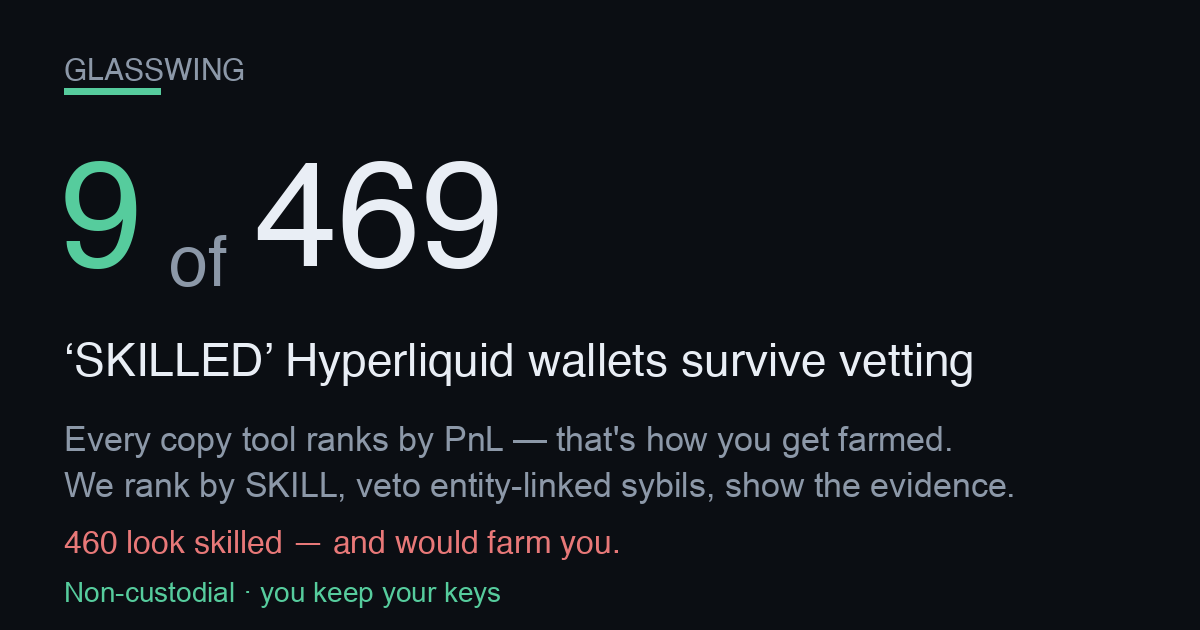
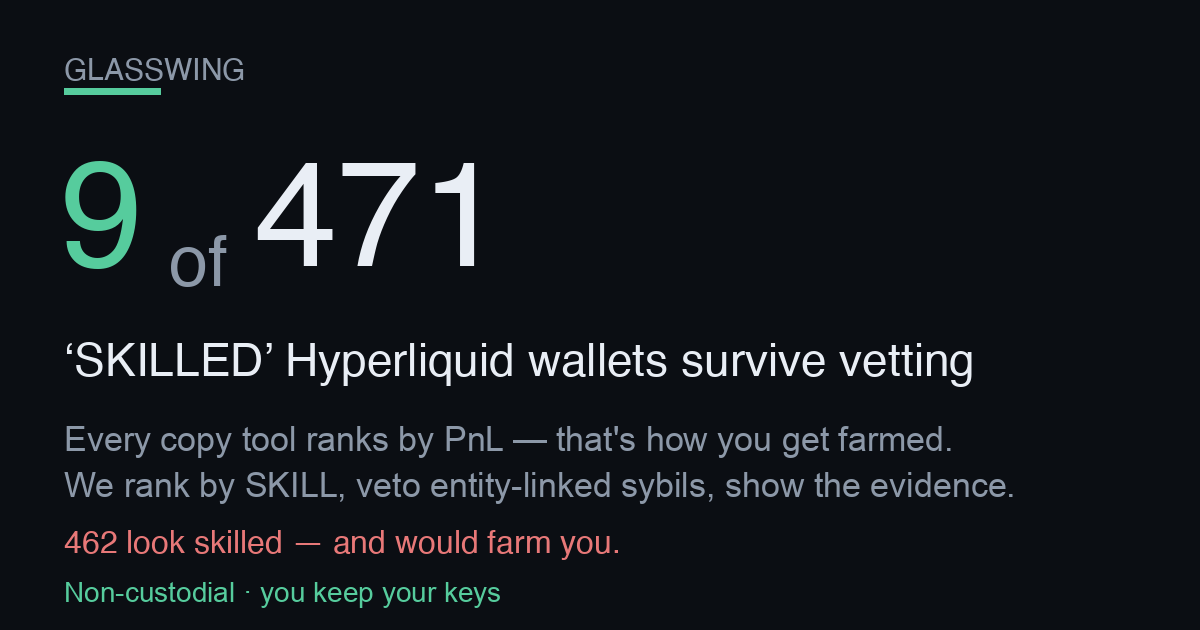
publish funnel 2026-09-26T18:35:58Z

Changed region(s): [[0.2775, 0.2413, 0.4317, 0.4524], [0.0617, 0.8444, 0.0925, 0.8746]]

diff --git a/screener.html b/screener.html
@@ -57,4 +57,4 @@ padding:11px 22px;font-size:15px;font-weight:800;border:1px solid var(--good)}
 footer{margin-top:34px;color:var(--muted);font-size:12px;line-height:1.6;
 border-top:1px solid var(--line);padding-top:16px}
 footer b{color:var(--ink)}
-</style></head><body><div class="wrap"><div class="nav"><a href="./index.html">&larr; Glasswing home</a><span class="sep">|</span><span>Edge Screener</span><span class="sep">|</span><a href="./dex.html">Copy a vetted leader</a></div><div class="hero"><h1>Hyperliquid Edge Screener</h1><div class="sub">Where&rsquo;s the carry, where a maker earns, and what&rsquo;s moving on Hyperliquid &mdash; live, computed from the public API. Bookmark it. Every number below is real and timestamped.</div><div class="stamp">Data as of <b>2026-09-26T05:43:20Z</b> &middot; rendered 2026-09-26T05:43:20Z &middot; 178 perps &middot; 109 HIP-3 (xyz) markets scanned</div></div><h2>Top funding &mdash; the carry table <span class="hint">perps ranked by annualized funding. Positive = longs pay shorts (a delta-neutral short earns it).</span></h2><div class="tblwrap"><table><thead><tr><th>Coin</th><th>Funding / hr</th><th>Annualized</th><th>Who pays</th><th>Open interest</th><th>24h volume</th></tr></thead><tbody><tr><td class="coin">CASHCAT</td><td>+0.0230%</td><td class="pos">+201.6%</td><td><span class="tag longs">longs pay</span></td><td>$51.1M</td><td>$29.1M</td></tr><tr><td class="coin">SKY</td><td>+0.0181%</td><td class="pos">+159.0%</td><td><span class="tag longs">longs pay</span></td><td>$5.4M</td><td>$1.2M</td></tr><tr><td class="coin">STBL<span class="tag thin" title="Low liquidity/OI &mdash; ADL &amp; liquidation risk; funding can flip">&#9888; thin</span></td><td>+0.0149%</td><td class="pos">+130.1%</td><td><span class="tag longs">longs pay</span></td><td>$2.4M</td><td>$221K</td></tr><tr><td class="coin">BIO</td><td>+0.0147%</td><td class="pos">+129.0%</td><td><span class="tag longs">longs pay</span></td><td>$1.6M</td><td>$1.5M</td></tr><tr><td class="coin">MNT</td><td>+0.0143%</td><td class="pos">+125.1%</td><td><span class="tag longs">longs pay</span></td><td>$7.4M</td><td>$952K</td></tr><tr><td class="coin">AZTEC</td><td>+0.0133%</td><td class="pos">+116.6%</td><td><span class="tag longs">longs pay</span></td><td>$1.1M</td><td>$527K</td></tr><tr><td class="coin">GRASS</td><td>+0.0128%</td><td class="pos">+111.8%</td><td><span class="tag longs">longs pay</span></td><td>$26.0M</td><td>$9.9M</td></tr><tr><td class="coin">GOAT<span class="tag thin" title="Low liquidity/OI &mdash; ADL &amp; liquidation risk; funding can flip">&#9888; thin</span></td><td>+0.0114%</td><td class="pos">+99.4%</td><td><span class="tag longs">longs pay</span></td><td>$1.6M</td><td>$144K</td></tr><tr><td class="coin">AERO</td><td>+0.0112%</td><td class="pos">+98.1%</td><td><span class="tag longs">longs pay</span></td><td>$38.7M</td><td>$22.6M</td></tr><tr><td class="coin">ETHFI</td><td>+0.0105%</td><td class="pos">+91.8%</td><td><span class="tag longs">longs pay</span></td><td>$18.8M</td><td>$4.4M</td></tr><tr><td class="coin">WIF</td><td>+0.0102%</td><td class="pos">+89.3%</td><td><span class="tag longs">longs pay</span></td><td>$8.9M</td><td>$1.3M</td></tr><tr><td class="coin">CFX<span class="tag thin" title="Low liquidity/OI &mdash; ADL &amp; liquidation risk; funding can flip">&#9888; thin</span></td><td>+0.0102%</td><td class="pos">+89.0%</td><td><span class="tag longs">longs pay</span></td><td>$3.4M</td><td>$182K</td></tr></tbody></table></div><h2>Widest HIP-3 spreads &mdash; where a maker earns <span class="hint">xyz: markets by impact-price spread vs the ~0.6bps round-trip fee. A resting limit order captures the gap.</span></h2><div class="tblwrap"><table><thead><tr><th>Market</th><th>Spread</th><th>vs 0.6bps fee</th><th>Mid</th><th>24h volume</th></tr></thead><tbody><tr><td class="coin">xyz:NCLD<span class="tag gm">growth</span></td><td>469.0 bps</td><td class="pos">+468.4 bps</td><td>24.4695</td><td>$38K</td></tr><tr><td class="coin">xyz:CVX<span class="tag gm">growth</span></td><td>381.4 bps</td><td class="pos">+380.8 bps</td><td>206.1550</td><td>$48K</td></tr><tr><td class="coin">xyz:GIGADEV<span class="tag gm">growth</span></td><td>215.1 bps</td><td class="pos">+214.5 bps</td><td>56.1625</td><td>$64K</td></tr><tr><td class="coin">xyz:BIRD<span class="tag gm">growth</span></td><td>146.9 bps</td><td class="pos">+146.3 bps</td><td>2.3372</td><td>$50K</td></tr><tr><td class="coin">xyz:OURA<span class="tag gm">growth</span></td><td>111.1 bps</td><td class="pos">+110.5 bps</td><td>49.8735</td><td>$217K</td></tr><tr><td class="coin">xyz:SHEIN<span class="tag gm">growth</span></td><td>106.7 bps</td><td class="pos">+106.1 bps</td><td>4.5600</td><td>$446K</td></tr><tr><td class="coin">xyz:KSTR<span class="tag gm">growth</span></td><td>93.1 bps</td><td class="pos">+92.5 bps</td><td>23.7500</td><td>$12K</td></tr><tr><td class="coin">xyz:LYTE<span class="tag gm">growth</span></td><td>87.5 bps</td><td class="pos">+86.9 bps</td><td>25.3565</td><td>$21K</td></tr><tr><td class="coin">xyz:SHAZ<span class="tag gm">growth</span></td><td>74.5 bps</td><td class="pos">+73.9 bps</td><td>55.0430</td><td>$265K</td></tr><tr><td class="coin">xyz:QNT<span class="tag gm">growth</span></td><td>72.9 bps</td><td class="pos">+72.3 bps</td><td>49.5655</td><td>$736K</td></tr><tr><td class="coin">xyz:RIVN<span class="tag gm">growth</span></td><td>70.8 bps</td><td class="pos">+70.2 bps</td><td>15.4405</td><td>$94K</td></tr><tr><td class="coin">xyz:KR200<span class="tag gm">growth</span></td><td>70.8 bps</td><td class="pos">+70.2 bps</td><td>1,107.40</td><td>$226K</td></tr></tbody></table></div><h2>Momentum &amp; volume &mdash; what&rsquo;s moving <span class="hint">perps by 24h volume with the 24h price change (mark vs prior-day).</span></h2><div class="tblwrap"><table><thead><tr><th>Coin</th><th>24h volume</th><th>24h change</th><th>Mark</th></tr></thead><tbody><tr><td class="coin">BTC</td><td>$2.57B</td><td class="neg">-0.39%</td><td>83,923.00</td></tr><tr><td class="coin">ETH</td><td>$836.9M</td><td class="pos">+0.28%</td><td>2,688.40</td></tr><tr><td class="coin">SOL</td><td>$598.8M</td><td class="pos">+3.58%</td><td>120.6800</td></tr><tr><td class="coin">ZEC</td><td>$512.0M</td><td class="neg">-0.71%</td><td>1,539.03</td></tr><tr><td class="coin">HYPE</td><td>$413.0M</td><td class="neg">-0.06%</td><td>91.8760</td></tr><tr><td class="coin">NEAR</td><td>$346.2M</td><td class="pos">+9.45%</td><td>4.9152</td></tr><tr><td class="coin">XRP</td><td>$225.4M</td><td class="pos">+1.47%</td><td>1.5537</td></tr><tr><td class="coin">ENA</td><td>$122.8M</td><td class="pos">+22.99%</td><td>0.27293</td></tr><tr><td class="coin">XPL</td><td>$100.7M</td><td class="neg">-1.86%</td><td>0.11296</td></tr><tr><td class="coin">SUI</td><td>$79.1M</td><td class="pos">+14.68%</td><td>1.1624</td></tr><tr><td class="coin">ONDO</td><td>$75.2M</td><td class="pos">+2.05%</td><td>0.54403</td></tr><tr><td class="coin">UNI</td><td>$61.6M</td><td class="pos">+6.26%</td><td>9.7188</td></tr></tbody></table></div><div class="cta"><h2>These are the opportunities. Now copy the people who trade them.</h2><p class="lead">Spotting the carry and the spreads is the easy part &mdash; sizing, timing and risk are where most traders bleed. Copy the <b>skill-vetted</b> Hyperliquid leaders who actually trade these edges. Non-custodial: <b>you keep your keys and your funds</b> the entire time.</p><div class="row"><a class="btn" href="./index.html">See the vetted leaders &rarr;</a><a class="btn ghost" href="./dex.html">Start copying (non-custodial) &rarr;</a></div><div class="nc"><b>Non-custodial &amp; honest:</b> we never hold your keys or funds. Copying routes through a <b>0.01%</b> (1bp) on-chain builder fee &mdash; that is the only thing we ever charge, and it is the same fee shown on the copy page. Nothing on this screener is executed for you; it is information only.</div></div><footer><b>Not financial advice.</b> Funding rates, spreads and volumes are live snapshots that change every block; figures can be stale by the time you act. A high funding rate is <b>not free money</b> &mdash; the biggest rates sit on the thinnest, most crowded books (flagged &#9888; thin), where funding can flip against you and auto-deleveraging (ADL) or liquidation can close your position. &ldquo;Spread&rdquo; here is the impact-price spread (a conservative maker signal), not a guaranteed fill. HIP-3 markets are experimental. Do your own research and size responsibly. Glasswing is <b>non-custodial</b> &mdash; we never take custody of your keys or funds.</footer></div></body></html>
+</style></head><body><div class="wrap"><div class="nav"><a href="./index.html">&larr; Glasswing home</a><span class="sep">|</span><span>Edge Screener</span><span class="sep">|</span><a href="./dex.html">Copy a vetted leader</a></div><div class="hero"><h1>Hyperliquid Edge Screener</h1><div class="sub">Where&rsquo;s the carry, where a maker earns, and what&rsquo;s moving on Hyperliquid &mdash; live, computed from the public API. Bookmark it. Every number below is real and timestamped.</div><div class="stamp">Data as of <b>2026-09-26T18:32:30Z</b> &middot; rendered 2026-09-26T18:32:30Z &middot; 178 perps &middot; 109 HIP-3 (xyz) markets scanned</div></div><h2>Top funding &mdash; the carry table <span class="hint">perps ranked by annualized funding. Positive = longs pay shorts (a delta-neutral short earns it).</span></h2><div class="tblwrap"><table><thead><tr><th>Coin</th><th>Funding / hr</th><th>Annualized</th><th>Who pays</th><th>Open interest</th><th>24h volume</th></tr></thead><tbody><tr><td class="coin">2Z</td><td>-0.0746%</td><td class="neg">-653.8%</td><td><span class="tag shorts">shorts pay</span></td><td>$2.5M</td><td>$4.3M</td></tr><tr><td class="coin">INJ</td><td>-0.0216%</td><td class="neg">-188.9%</td><td><span class="tag shorts">shorts pay</span></td><td>$15.3M</td><td>$21.5M</td></tr><tr><td class="coin">REZ</td><td>+0.0206%</td><td class="pos">+180.8%</td><td><span class="tag longs">longs pay</span></td><td>$1.8M</td><td>$718K</td></tr><tr><td class="coin">0G</td><td>+0.0201%</td><td class="pos">+176.0%</td><td><span class="tag longs">longs pay</span></td><td>$4.2M</td><td>$1.5M</td></tr><tr><td class="coin">GOAT<span class="tag thin" title="Low liquidity/OI &mdash; ADL &amp; liquidation risk; funding can flip">&#9888; thin</span></td><td>+0.0189%</td><td class="pos">+165.4%</td><td><span class="tag longs">longs pay</span></td><td>$1.7M</td><td>$91K</td></tr><tr><td class="coin">RESOLV</td><td>+0.0181%</td><td class="pos">+159.0%</td><td><span class="tag longs">longs pay</span></td><td>$1.7M</td><td>$793K</td></tr><tr><td class="coin">BIO</td><td>+0.0150%</td><td class="pos">+131.8%</td><td><span class="tag longs">longs pay</span></td><td>$1.6M</td><td>$369K</td></tr><tr><td class="coin">AERO</td><td>+0.0144%</td><td class="pos">+126.1%</td><td><span class="tag longs">longs pay</span></td><td>$38.0M</td><td>$16.5M</td></tr><tr><td class="coin">BSV</td><td>+0.0141%</td><td class="pos">+123.2%</td><td><span class="tag longs">longs pay</span></td><td>$1.2M</td><td>$359K</td></tr><tr><td class="coin">SYRUP</td><td>+0.0120%</td><td class="pos">+105.5%</td><td><span class="tag longs">longs pay</span></td><td>$8.8M</td><td>$1.8M</td></tr><tr><td class="coin">kLUNC<span class="tag thin" title="Low liquidity/OI &mdash; ADL &amp; liquidation risk; funding can flip">&#9888; thin</span></td><td>+0.0115%</td><td class="pos">+100.8%</td><td><span class="tag longs">longs pay</span></td><td>$291K</td><td>$75K</td></tr><tr><td class="coin">BRETT<span class="tag thin" title="Low liquidity/OI &mdash; ADL &amp; liquidation risk; funding can flip">&#9888; thin</span></td><td>+0.0115%</td><td class="pos">+100.3%</td><td><span class="tag longs">longs pay</span></td><td>$394K</td><td>$1.2M</td></tr></tbody></table></div><h2>Widest HIP-3 spreads &mdash; where a maker earns <span class="hint">xyz: markets by impact-price spread vs the ~0.6bps round-trip fee. A resting limit order captures the gap.</span></h2><div class="tblwrap"><table><thead><tr><th>Market</th><th>Spread</th><th>vs 0.6bps fee</th><th>Mid</th><th>24h volume</th></tr></thead><tbody><tr><td class="coin">xyz:CVX<span class="tag gm">growth</span></td><td>314.8 bps</td><td class="pos">+314.2 bps</td><td>205.0050</td><td>$35K</td></tr><tr><td class="coin">xyz:GIGADEV<span class="tag gm">growth</span></td><td>264.5 bps</td><td class="pos">+263.9 bps</td><td>56.6505</td><td>$58K</td></tr><tr><td class="coin">xyz:BIRD<span class="tag gm">growth</span></td><td>145.3 bps</td><td class="pos">+144.7 bps</td><td>2.3430</td><td>$17K</td></tr><tr><td class="coin">xyz:NCLD<span class="tag gm">growth</span></td><td>143.5 bps</td><td class="pos">+142.9 bps</td><td>24.9045</td><td>$729K</td></tr><tr><td class="coin">xyz:OURA<span class="tag gm">growth</span></td><td>120.8 bps</td><td class="pos">+120.2 bps</td><td>50.1785</td><td>$153K</td></tr><tr><td class="coin">xyz:SHEIN<span class="tag gm">growth</span></td><td>104.5 bps</td><td class="pos">+103.9 bps</td><td>4.5575</td><td>$309K</td></tr><tr><td class="coin">xyz:KSTR<span class="tag gm">growth</span></td><td>94.7 bps</td><td class="pos">+94.1 bps</td><td>23.6900</td><td>$239K</td></tr><tr><td class="coin">xyz:LYTE<span class="tag gm">growth</span></td><td>80.2 bps</td><td class="pos">+79.6 bps</td><td>25.5030</td><td>$14K</td></tr><tr><td class="coin">xyz:SHAZ<span class="tag gm">growth</span></td><td>70.0 bps</td><td class="pos">+69.4 bps</td><td>55.0025</td><td>$88K</td></tr><tr><td class="coin">xyz:MAGS<span class="tag gm">growth</span></td><td>68.4 bps</td><td class="pos">+67.8 bps</td><td>72.6490</td><td>$22K</td></tr><tr><td class="coin">xyz:XBI<span class="tag gm">growth</span></td><td>66.9 bps</td><td class="pos">+66.3 bps</td><td>155.2750</td><td>$9K</td></tr><tr><td class="coin">xyz:SOFTBANK<span class="tag gm">growth</span></td><td>62.7 bps</td><td class="pos">+62.1 bps</td><td>39.2300</td><td>$15K</td></tr></tbody></table></div><h2>Momentum &amp; volume &mdash; what&rsquo;s moving <span class="hint">perps by 24h volume with the 24h price change (mark vs prior-day).</span></h2><div class="tblwrap"><table><thead><tr><th>Coin</th><th>24h volume</th><th>24h change</th><th>Mark</th></tr></thead><tbody><tr><td class="coin">BTC</td><td>$864.2M</td><td class="pos">+0.11%</td><td>84,029.00</td></tr><tr><td class="coin">SOL</td><td>$245.7M</td><td class="neg">-0.43%</td><td>121.3500</td></tr><tr><td class="coin">ETH</td><td>$229.1M</td><td class="neg">-0.18%</td><td>2,688.50</td></tr><tr><td class="coin">ZEC</td><td>$196.5M</td><td class="pos">+1.89%</td><td>1,576.10</td></tr><tr><td class="coin">NEAR</td><td>$193.1M</td><td class="neg">-2.62%</td><td>4.8435</td></tr><tr><td class="coin">HYPE</td><td>$176.0M</td><td class="pos">+0.23%</td><td>91.7550</td></tr><tr><td class="coin">ENA</td><td>$89.2M</td><td class="pos">+5.27%</td><td>0.27304</td></tr><tr><td class="coin">XRP</td><td>$87.5M</td><td class="neg">-2.26%</td><td>1.5350</td></tr><tr><td class="coin">PUMP</td><td>$62.7M</td><td class="pos">+7.35%</td><td>0.004468</td></tr><tr><td class="coin">WLD</td><td>$59.0M</td><td class="pos">+17.50%</td><td>0.54044</td></tr><tr><td class="coin">XPL</td><td>$53.9M</td><td class="pos">+3.08%</td><td>0.11742</td></tr><tr><td class="coin">SUI</td><td>$46.2M</td><td class="pos">+4.33%</td><td>1.1758</td></tr></tbody></table></div><div class="cta"><h2>These are the opportunities. Now copy the people who trade them.</h2><p class="lead">Spotting the carry and the spreads is the easy part &mdash; sizing, timing and risk are where most traders bleed. Copy the <b>skill-vetted</b> Hyperliquid leaders who actually trade these edges. Non-custodial: <b>you keep your keys and your funds</b> the entire time.</p><div class="row"><a class="btn" href="./index.html">See the vetted leaders &rarr;</a><a class="btn ghost" href="./dex.html">Start copying (non-custodial) &rarr;</a></div><div class="nc"><b>Non-custodial &amp; honest:</b> we never hold your keys or funds. Copying routes through a <b>0.01%</b> (1bp) on-chain builder fee &mdash; that is the only thing we ever charge, and it is the same fee shown on the copy page. Nothing on this screener is executed for you; it is information only.</div></div><footer><b>Not financial advice.</b> Funding rates, spreads and volumes are live snapshots that change every block; figures can be stale by the time you act. A high funding rate is <b>not free money</b> &mdash; the biggest rates sit on the thinnest, most crowded books (flagged &#9888; thin), where funding can flip against you and auto-deleveraging (ADL) or liquidation can close your position. &ldquo;Spread&rdquo; here is the impact-price spread (a conservative maker signal), not a guaranteed fill. HIP-3 markets are experimental. Do your own research and size responsibly. Glasswing is <b>non-custodial</b> &mdash; we never take custody of your keys or funds.</footer></div></body></html>

diff --git a/track.html b/track.html
@@ -62,35 +62,35 @@ font-weight:600;font-size:14px}
 <div class="wrap">
   <div class="hero">
     <h1>Self-verifying on-chain track record</h1>
-    <div class="big">$28.90</div>
+    <div class="big">$28.71</div>
     <div class="sub">current on-chain equity (perp + vault + spot USDC)</div>
     <div class="addr">0xbe6C1b09662BbE52CC93279D103Feb27985DdBc1</div>
-    <div class="stage building">69 days live — BUILDING</div>
+    <div class="stage building">70 days live — BUILDING</div>
   </div>
 
   
 
   <h2>On-chain figures <span style="color:var(--muted);font-weight:400;font-size:13px">
   &mdash; every one reproducible from the public info API</span></h2>
-  <table><tbody><tr><td class="k">On-chain equity (perp + vault + spot USDC)</td><td class="v">$28.90</td></tr><tr><td class="k">Perp account value</td><td class="v">$28.72</td></tr><tr><td class="k">Vault equity</td><td class="v">$0.17</td></tr><tr><td class="k">Spot USDC</td><td class="v">$0.01</td></tr><tr><td class="k">Withdrawable</td><td class="v">$28.72</td></tr></tbody></table>
+  <table><tbody><tr><td class="k">On-chain equity (perp + vault + spot USDC)</td><td class="v">$28.71</td></tr><tr><td class="k">Perp account value</td><td class="v">$28.53</td></tr><tr><td class="k">Vault equity</td><td class="v">$0.16</td></tr><tr><td class="k">Spot USDC</td><td class="v">$0.01</td></tr><tr><td class="k">Withdrawable</td><td class="v">$28.53</td></tr></tbody></table>
 
   <h2>Vault deposits (on-chain)</h2><table><thead><tr><th>Vault address</th><th>Our equity</th></tr></thead><tbody><tr><td class="mono">0x2431edfcb662e6ff6deab113cc91878a0b53fb0f</td><td class="v">$0.01</td></tr><tr><td class="mono">0x697bc3dd77539fa84156d0e1c95287ea5524fd6b</td><td class="v">$0.00</td></tr><tr><td class="mono">0x8825e6ed11c7f9c0874579c9f4bba192b9e81c8f</td><td class="v">$0.13</td></tr><tr><td class="mono">0xc71f5a493b937e4b1798b86510630336a6dfd804</td><td class="v">$0.03</td></tr></tbody></table>
 
   <h2>Performance <span style="color:var(--muted);font-weight:400;font-size:13px">
   &mdash; honest stage, no annualization</span></h2>
-  <table><tbody><tr><td class="k">Days live (our formal record)</td><td class="v">69</td></tr><tr><td class="k">Maturity</td><td class="v">BUILDING</td></tr><tr><td class="k">Current real strategy income / day</td><td class="v">$-0.0042</td></tr><tr><td class="k">Cumulative net income (if attributed)</td><td class="v">$37.9761</td></tr><tr><td class="k">Annualized APR</td><td class="v">shown per-day above</td></tr></tbody></table>
+  <table><tbody><tr><td class="k">Days live (our formal record)</td><td class="v">70</td></tr><tr><td class="k">Maturity</td><td class="v">BUILDING</td></tr><tr><td class="k">Current real strategy income / day</td><td class="v">$-0.0126</td></tr><tr><td class="k">Cumulative net income (if attributed)</td><td class="v">$37.9761</td></tr><tr><td class="k">Annualized APR</td><td class="v">shown per-day above</td></tr></tbody></table>
 
   <h2>Strategy arms <span style="color:var(--muted);font-weight:400;font-size:13px">
   &mdash; internal marks, cross-checkable against chain equity</span></h2>
-  <table><thead><tr><th>Arm</th><th>Status</th><th>Real / day</th><th>Note</th></tr></thead><tbody><tr><td class="v">carry</td><td><span class="badge off">—</span></td><td class="v">$-0.0042</td><td class="k"></td></tr><tr><td class="v">copy</td><td><span class="badge live">live</span></td><td class="v">$0.0000</td><td class="k"></td></tr><tr><td class="v">builder</td><td><span class="badge off">—</span></td><td class="v">$0.0000</td><td class="k">proven live; $0 until distributed (∝ users&#x27; volume)</td></tr></tbody></table>
+  <table><thead><tr><th>Arm</th><th>Status</th><th>Real / day</th><th>Note</th></tr></thead><tbody><tr><td class="v">carry</td><td><span class="badge off">—</span></td><td class="v">$-0.0126</td><td class="k"></td></tr><tr><td class="v">copy</td><td><span class="badge live">live</span></td><td class="v">$0.0000</td><td class="k"></td></tr><tr><td class="v">builder</td><td><span class="badge off">—</span></td><td class="v">$0.0000</td><td class="k">proven live; $0 until distributed (∝ users&#x27; volume)</td></tr></tbody></table>
 
   <h2>Reproduce it</h2>
   <div class="verify"><h3>Verify this yourself</h3><p>These are PUBLIC calls. Run them yourself against the address below and you will re-derive every on-chain figure on this page. equity_usd = perp accountValue + vault equity + spot USDC. Endpoint: https://api.hyperliquid.xyz/info</p><div class="cn">clearinghouseState &rarr; marginSummary.accountValue (perp value), withdrawable, marginSummary.totalMarginUsed</div><pre>curl -s -X POST https://api.hyperliquid.xyz/info -H &#x27;Content-Type: application/json&#x27; -d &#x27;{&quot;type&quot;: &quot;clearinghouseState&quot;, &quot;user&quot;: &quot;0xbe6C1b09662BbE52CC93279D103Feb27985DdBc1&quot;}&#x27;</pre><div class="cn">userVaultEquities &rarr; sum of each entry&#x27;s equity (our vault deposits)</div><pre>curl -s -X POST https://api.hyperliquid.xyz/info -H &#x27;Content-Type: application/json&#x27; -d &#x27;{&quot;type&quot;: &quot;userVaultEquities&quot;, &quot;user&quot;: &quot;0xbe6C1b09662BbE52CC93279D103Feb27985DdBc1&quot;}&#x27;</pre><div class="cn">spotClearinghouseState &rarr; balances[] where coin==USDC -&gt; total (spot USDC)</div><pre>curl -s -X POST https://api.hyperliquid.xyz/info -H &#x27;Content-Type: application/json&#x27; -d &#x27;{&quot;type&quot;: &quot;spotClearinghouseState&quot;, &quot;user&quot;: &quot;0xbe6C1b09662BbE52CC93279D103Feb27985DdBc1&quot;}&#x27;</pre></div>
 
   <footer>
     <div>Self-verifying: every on-chain figure is reproducible by querying Hyperliquid&#x27;s public info API for the stated address. Internal daily marks are cross-checkable against on-chain equity. EARLY-STAGE record — not a mature track record, not an APR promise, not financial advice. Past performance != future results.</div>
-    <div class="stamp">Generated at 2026-09-26T05:40:31Z &middot; internal marks
-    mtime 2026-09-26T01:29:23Z &middot; static receipt, no live
+    <div class="stamp">Generated at 2026-09-26T18:29:37Z &middot; internal marks
+    mtime 2026-09-26T13:29:45Z &middot; static receipt, no live
     authority — this page never trades or arms.</div>
   </footer>
 </div>

diff --git a/index.html b/index.html
@@ -3,8 +3,8 @@
 <head>
 <meta charset="utf-8">
 <meta name="viewport" content="width=device-width, initial-scale=1">
-<title>9 of 469 SKILLED Hyperliquid wallets survive vetting</title>
-<meta name="description" content="9 of 469 leaderboard-SKILLED Hyperliquid wallets survive vetting. Copy only the survivors, non-custodial — you keep your keys and funds.">
+<title>9 of 471 SKILLED Hyperliquid wallets survive vetting</title>
+<meta name="description" content="9 of 471 leaderboard-SKILLED Hyperliquid wallets survive vetting. Copy only the survivors, non-custodial — you keep your keys and funds.">
 <link rel="canonical" href="https://dynobit.github.io/glasswing/">
 <meta name="robots" content="index,follow">
 <meta name="theme-color" content="#0b0e13">
@@ -14,14 +14,14 @@
      head, not this. og:url is the canonical Pages home so every share resolves here. -->
 <meta property="og:type" content="website">
 <meta property="og:site_name" content="Glasswing">
-<meta property="og:title" content="9 of 469 SKILLED Hyperliquid wallets survive vetting">
+<meta property="og:title" content="9 of 471 SKILLED Hyperliquid wallets survive vetting">
 <meta property="og:description" content="Every copy tool ranks leaders by PnL — which is how you get farmed. This ranks by SKILL, then vetoes entity-linked sybils, and shows the evidence for every reject. Non-custodial: you keep your keys.">
 <meta property="og:url" content="https://dynobit.github.io/glasswing/">
 <meta property="og:image" content="https://dynobit.github.io/glasswing/og-card.png">
 <meta property="og:image:width" content="1200">
 <meta property="og:image:height" content="630">
 <meta name="twitter:card" content="summary_large_image">
-<meta name="twitter:title" content="9 of 469 SKILLED Hyperliquid wallets survive vetting">
+<meta name="twitter:title" content="9 of 471 SKILLED Hyperliquid wallets survive vetting">
 <meta name="twitter:description" content="Skill-ranked (not PnL-ranked) HL copy-leaders, entity-linked sybils vetoed with evidence. Non-custodial.">
 <meta name="twitter:image" content="https://dynobit.github.io/glasswing/og-card.png">
 <style>
@@ -135,18 +135,18 @@ footer .nc{color:var(--good);font-weight:600}
 
   <!-- 1. HERO — the shareable hook (screenshot-worthy) -->
   <div class="hero">
-    <h1><span class="big">9 of 469</span> &lsquo;SKILLED&rsquo;
+    <h1><span class="big">9 of 471</span> &lsquo;SKILLED&rsquo;
     Hyperliquid wallets survive vetting</h1>
-    <div class="sub">The other <span class="trap">460</span> look skilled on a
+    <div class="sub">The other <span class="trap">462</span> look skilled on a
     raw copy leaderboard but would farm you &mdash; here are the
-    <span class="trap">460</span> that would. Entity-linked sybils,
+    <span class="trap">462</span> that would. Entity-linked sybils,
     wash-traded track records, or simply unscreened. 1.9% survive.
-    Universe: 4565 scored wallets.</div>
+    Universe: 4603 scored wallets.</div>
   </div>
 
   <!-- 2. THE WEDGE — the marketing (why us, not any other copy tool) -->
   <div class="wedge"><span class="them">Every other copy tool ranks all
-    469 by PnL and calls it a leaderboard.</span> We are the only one that
+    471 by PnL and calls it a leaderboard.</span> We are the only one that
     <b>flags the entity-linked and farming wallets with on-chain evidence</b> &mdash;
     transfer-graph linkage between wallets and arXiv memecoin farm-features &mdash;
     and shows you only the 9 that survive. A high PnL is exactly what a
@@ -268,7 +268,7 @@ footer .nc{color:var(--good);font-weight:600}
   <footer>
     <div class="nc">Non-custodial: we never hold your keys or funds. No server, no backend. Your browser talks only to Hyperliquid&#x27;s public API.</div>
     <div>Advisory. Skill = sign-randomization null vs luck. Entity veto = public transfer-graph linkage. Farm screen = arXiv:2601.08641 features (memecoin thresholds, HL-uncalibrated). Follower-realizable PnL is NOT yet proven — a PRE-COMMITTED forward test is in progress (0/2 windows, earliest 2026-08-13); the copyability claim publishes only when the pre-registered windows close, so it cannot be discovery-mined. Exit-alpha shown is advisory. Not financial advice.</div>
-    <div class="stamp">Generated at 2026-09-26T05:41:29Z &middot; single-file funnel,
+    <div class="stamp">Generated at 2026-09-26T18:29:53Z &middot; single-file funnel,
     no live authority. In-browser order signing is IMPLEMENTED (real secp256k1 +
     keccak + msgpack EIP-712 from a pinned CDN) but UNVALIDATED against Hyperliquid:
     mainnet is blocked until a testnet order is proven accepted.</div>

diff --git a/dex.html b/dex.html
@@ -112,8 +112,8 @@ footer .nc{color:var(--good);font-weight:600}
     funds and your keys the whole time. Two signatures in your own wallet, an
     ephemeral in-browser agent key that can trade but never withdraw, and a
     client-side loop that mirrors only the
-    <b>9 of 469</b> vetted survivors
-    (universe: 4565 scored wallets). No server, no backend.</div>
+    <b>9 of 471</b> vetted survivors
+    (universe: 4603 scored wallets). No server, no backend.</div>
     <div class="tag">static bundle &middot; IPFS-publishable &middot; revenue accrues on-chain</div>
   </div>
 
@@ -217,7 +217,7 @@ footer .nc{color:var(--good);font-weight:600}
   <footer>
     <div class="nc">Pure DEX, self-custodial. No server, no backend, no key we ever hold. Your browser talks only to Hyperliquid&#x27;s public API.</div>
     <div>Advisory. Skill = sign-randomization null vs luck. Entity veto = public transfer-graph linkage. Farm screen = arXiv:2601.08641 features (memecoin thresholds, HL-uncalibrated). Follower-realizable PnL is NOT yet proven — a PRE-COMMITTED forward test is in progress (0/2 windows, earliest 2026-08-13); the copyability claim publishes only when the pre-registered windows close, so it cannot be discovery-mined. Exit-alpha shown is advisory. Not financial advice.</div>
-    <div class="stamp">Generated at 2026-09-26T05:41:29Z &middot; static,
+    <div class="stamp">Generated at 2026-09-26T18:29:53Z &middot; static,
     self-custodial surface, no live authority. In-browser order signing is
     IMPLEMENTED (real secp256k1 + keccak + msgpack EIP-712 from a pinned CDN) but
     UNVALIDATED against Hyperliquid: mainnet is blocked until a testnet order is
